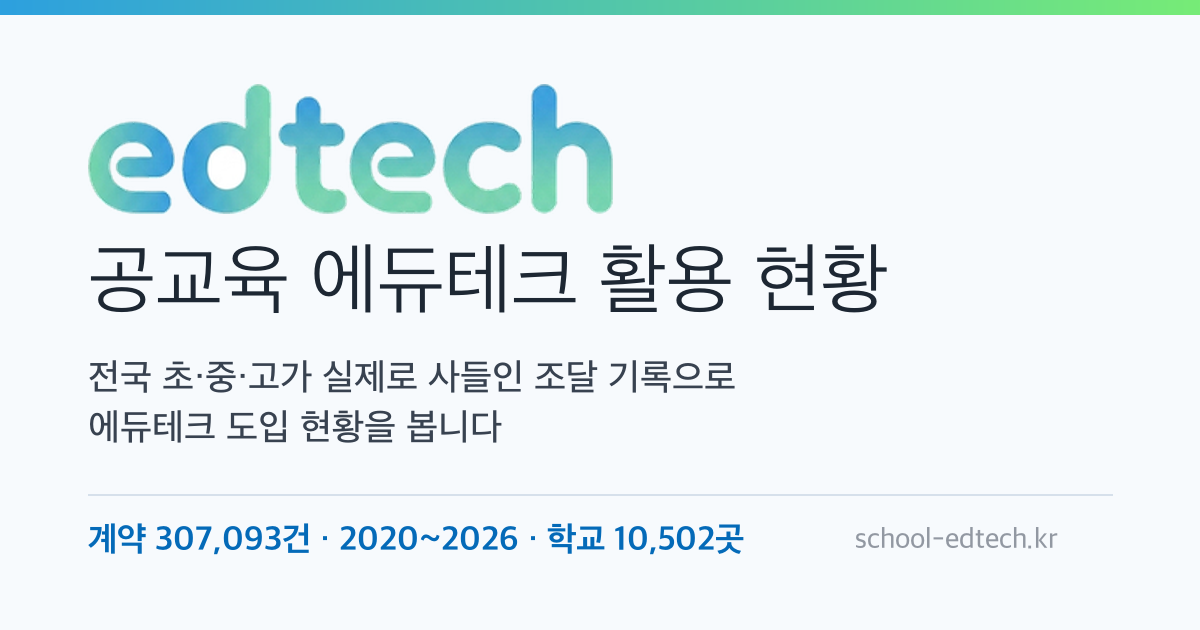
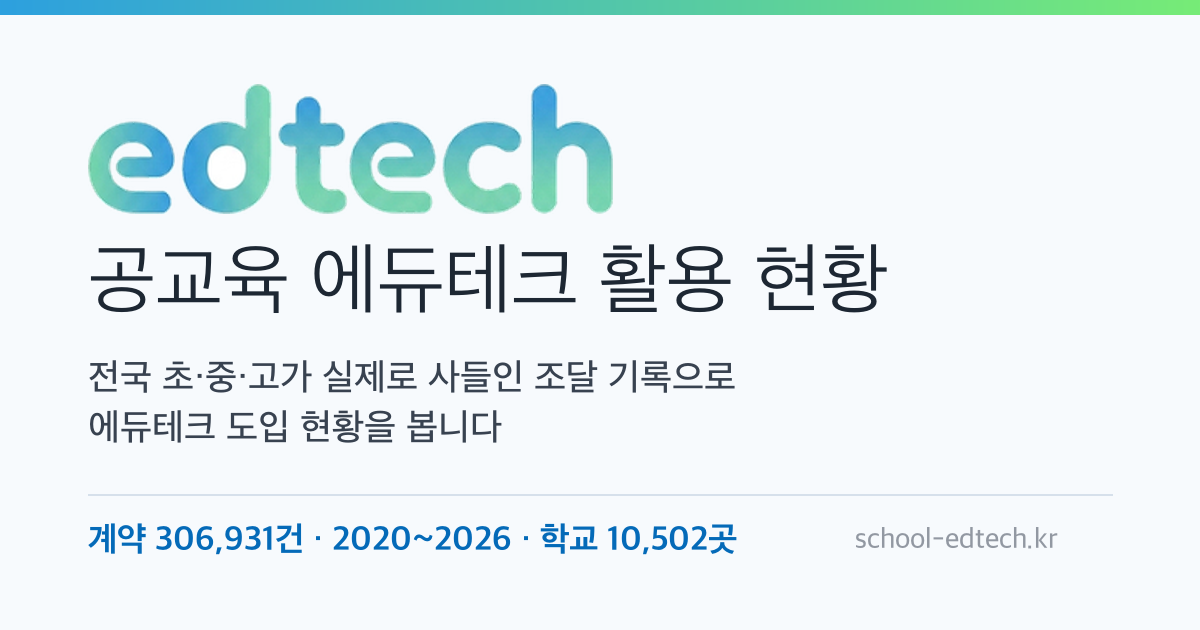
공유 카드의 건수를 빌드가 직접 고치게 한다
메타 설명과 카드 그림에 건수를 손으로 적어 두면 매월 10일 자동 갱신 때마다
어긋난다. make_ogcard.py를 빌드 끝에 붙여 지금 건수·학교 수·기간으로 다시 그린다.

306,931건 · 학교 10,502곳

Changed region(s): [[0.1542, 0.8143, 0.6167, 0.9048]]

diff --git a/index.html b/index.html
@@ -5,22 +5,22 @@
 <meta name="viewport" content="width=device-width, initial-scale=1">
 <title>공교육 에듀테크 활용 현황</title>
 <link rel="icon" type="image/png" href="favicon.png?v=1">
-<meta name="description" content="전국 초·중·고가 실제로 사들인 조달 기록 307,093건으로 보는 공교육 에듀테크 도입 현황. 학교·지역·제품별로 무엇을 언제 얼마에 샀는지 찾아봅니다.">
+<meta name="description" content="전국 초·중·고가 실제로 사들인 조달 기록 306,931건으로 보는 공교육 에듀테크 도입 현황. 학교·지역·제품별로 무엇을 언제 얼마에 샀는지 찾아봅니다.">
 <link rel="canonical" href="https://school-edtech.kr/">
 <meta property="og:type" content="website">
 <meta property="og:site_name" content="공교육 에듀테크 활용 현황">
 <meta property="og:locale" content="ko_KR">
 <meta property="og:url" content="https://school-edtech.kr/">
 <meta property="og:title" content="공교육 에듀테크 활용 현황">
-<meta property="og:description" content="전국 초·중·고가 실제로 사들인 조달 기록 307,093건으로 보는 에듀테크 도입 현황">
-<meta property="og:image" content="https://school-edtech.kr/og_card.png?v=1">
+<meta property="og:description" content="전국 초·중·고가 실제로 사들인 조달 기록 306,931건으로 보는 에듀테크 도입 현황">
+<meta property="og:image" content="https://school-edtech.kr/og_card.png?v=2">
 <meta property="og:image:width" content="1200">
 <meta property="og:image:height" content="630">
 <meta property="og:image:alt" content="공교육 에듀테크 활용 현황 — 계약 307,093건, 2020~2026, 학교 10,502곳">
 <meta name="twitter:card" content="summary_large_image">
 <meta name="twitter:title" content="공교육 에듀테크 활용 현황">
-<meta name="twitter:description" content="전국 초·중·고가 실제로 사들인 조달 기록 307,093건으로 보는 에듀테크 도입 현황">
-<meta name="twitter:image" content="https://school-edtech.kr/og_card.png?v=1">
+<meta name="twitter:description" content="전국 초·중·고가 실제로 사들인 조달 기록 306,931건으로 보는 에듀테크 도입 현황">
+<meta name="twitter:image" content="https://school-edtech.kr/og_card.png?v=2">
 <link rel="stylesheet" href="https://cdn.jsdelivr.net/gh/orioncactus/pretendard@v1.3.9/dist/web/variable/pretendardvariable-dynamic-subset.min.css">
 <style>
 :root {
@@ -418,7 +418,7 @@ footer { text-align: center; color: var(--muted); font-size: 12px; padding: 20px
 </main>
 <footer>Crafted by Keol Lim</footer>
 <div id="pickerRoot"></div>
-<script src="data_summary.js?b=20260909c"></script>
+<script src="data_summary.js?b=20260909d"></script>
 <script>
 // 첫 화면은 요약 자료(수십 KB)만으로 그린다. 13만 건 원자료(data.js)는 그림이 나온 뒤에 받는다.
 (function () {
@@ -469,7 +469,7 @@ footer { text-align: center; color: var(--muted); font-size: 12px; padding: 20px
   var go = function () {
     if (started) return;
     started = true;
-    load("data.js?b=20260909c", function () { load("app.js?b=20260909c"); });
+    load("data.js?b=20260909d", function () { load("app.js?b=20260909d"); });
   };
   requestAnimationFrame(function () { setTimeout(go, 0); });
   setTimeout(go, 300);

diff --git a/app.js b/app.js
@@ -120,7 +120,7 @@ function detailVal(i, k) {
 const contentOf = r => r.content != null ? r.content : detailVal(r._i, "content");
 (function loadDetail() {
   const s = document.createElement("script");
-  s.src = "data_detail.js?b=20260909c";
+  s.src = "data_detail.js?b=20260909d";
   s.onload = () => { if (typeof DB_DETAIL !== "undefined") mergeDetail(DB_DETAIL); };
   document.body.appendChild(s);
 })();
@@ -461,7 +461,7 @@ function withOld(from, then) {
     }
     OLD_STATE = "done";
     const s2 = document.createElement("script");
-    s2.src = "data_detail_old.js?b=20260909c";
+    s2.src = "data_detail_old.js?b=20260909d";
     s2.onload = () => {
       if (typeof DB_DETAIL_OLD !== "undefined") {
         DETAIL_OLD = DB_DETAIL_OLD;
@@ -473,7 +473,7 @@ function withOld(from, then) {
     then();
   };
   const s = document.createElement("script");
-  s.src = "data_old.js?b=20260909c";
+  s.src = "data_old.js?b=20260909d";
   s.onload = add;
   s.onerror = () => { OLD_STATE = "none"; const e = $("#oldload"); if (e) e.remove(); };
   document.body.appendChild(s);

diff --git a/make_ogcard.py b/make_ogcard.py
@@ -1,0 +1,46 @@
+# 공유 카드(og_card.png)와 index.html의 메타 설명을 지금 건수로 다시 만든다.
+# 빌드 끝에 자동으로 부른다 — 숫자를 손으로 고치면 자동 갱신 때마다 어긋난다.
+import re, sys
+
+def build(total, schools, ymin, ymax):
+    try:
+        from PIL import Image, ImageDraw, ImageFont
+    except ImportError:
+        print("  (Pillow가 없어 카드 그림은 건너뛴다)"); return False
+    W, H = 1200, 630
+    img = Image.new("RGB", (W, H), "#f7fafd"); d = ImageDraw.Draw(img)
+    for x in range(W):                      # 사이트의 --brand-grad와 같은 띠
+        t = x / (W - 1)
+        d.line([(x, 0), (x, 14)], fill=(int(0x2d + (0x77 - 0x2d) * t),
+                                        int(0xa0 + (0xec - 0xa0) * t),
+                                        int(0xdf + (0x77 - 0xdf) * t)))
+    F = "/System/Library/Fonts/AppleSDGothicNeo.ttc"
+    f = lambda sz, i=0: ImageFont.truetype(F, sz, index=i)
+    wm = Image.open("logo_wordmark.png").convert("RGBA")
+    wm = wm.resize((int(wm.width * 1.55), int(wm.height * 1.55)), Image.LANCZOS)
+    img.paste(wm, (88, 84), wm)
+    d.text((88, 236), "공교육 에듀테크 활용 현황", font=f(78, 8), fill="#1d2733")
+    d.text((88, 356), "전국 초·중·고가 실제로 사들인 조달 기록으로", font=f(37, 2), fill="#384250")
+    d.text((88, 406), "에듀테크 도입 현황을 봅니다", font=f(37, 2), fill="#384250")
+    d.line([(88, 494), (1112, 494)], fill="#d6e0eb", width=2)
+    d.text((88, 520), f"계약 {total:,}건 · {ymin}~{ymax} · 학교 {schools:,}곳",
+           font=f(34, 6), fill="#046ab8")
+    d.text((855, 522), "school-edtech.kr", font=f(29, 2), fill="#9298a2")
+    img.save("og_card.png", optimize=True)
+    return True
+
+def rewrite_meta(total):
+    s = open("index.html", encoding="utf-8").read()
+    n = f"{total:,}건"
+    s2 = re.sub(r"조달 기록 [\d,]+건", f"조달 기록 {n}", s)
+    if s2 != s:
+        open("index.html", "w", encoding="utf-8").write(s2)
+    return s2 != s
+
+if __name__ == "__main__":
+    a = sys.argv[1:]
+    total, schools = int(a[0]), int(a[1])
+    ymin, ymax = (a[2], a[3]) if len(a) > 3 else ("2020", "2026")
+    build(total, schools, ymin, ymax)
+    rewrite_meta(total)
+    print(f"공유 카드·메타 설명 갱신: {total:,}건 · 학교 {schools:,}곳")

diff --git a/build_data.py b/build_data.py
@@ -1644,3 +1644,14 @@ if _sh.which("node"):
     _sp.run(["node", "make_summary.js"], check=False)
 else:
     print("! node가 없어 data_summary.js를 만들지 못했습니다 — 첫 화면이 원자료를 기다리게 됩니다")
+
+# 공유 카드와 메타 설명의 건수 — 손으로 적어 두면 자동 갱신 때마다 어긋난다
+try:
+    import make_ogcard as _og
+    _sc = len({r["schoolCode"] for r in records if r.get("schoolCode")})
+    _yrs = sorted({r["year"] for r in records if r.get("year")})
+    _og.build(len(records), _sc, _yrs[0] if _yrs else 2020, _yrs[-1] if _yrs else 2026)
+    _og.rewrite_meta(len(records))
+    print(f"공유 카드·메타 설명 갱신: {len(records):,}건 · 학교 {_sc:,}곳")
+except Exception as _e:
+    print(f"! 공유 카드를 갱신하지 못했습니다 ({type(_e).__name__}: {_e})")
